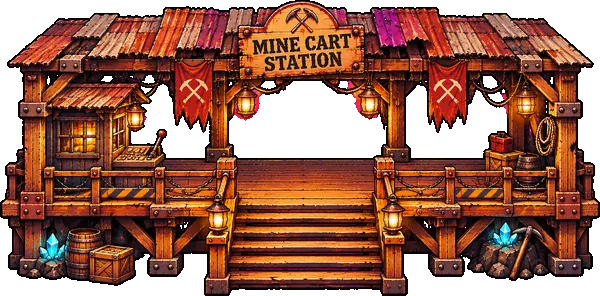
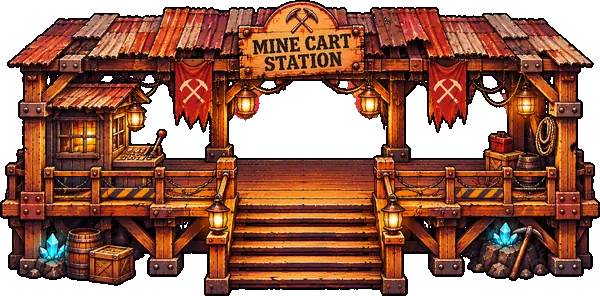
The Deep Mine: dungeon cordon enforced (helicopter blocked), station fix, play-test sim
Claude-Session: https://claude.ai/code/session_01DZ7TQ884r4s3ytnVNv4XVF

diff --git a/server/src/SurvivalRoom.js b/server/src/SurvivalRoom.js
@@ -1,7 +1,7 @@
 import { Room } from "@colyseus/core";
 import { MapSchema } from "@colyseus/schema";
 import { GameState, PlayerState, ZombieState, StructureState, LootState, PuddleState, RobotState, VehicleState } from "./schema.js";
-import { buildMapLayout, buildDynastyLayout, buildWhiteoutLayout, buildRefineryLayout, buildCarnivalLayout, buildMineLayout, mineTrack, MN_SPOT, coasterTrack, coasterAt, coasterSeat, COASTER, mapBoxes, packLayout, paintedOf, paintedLayout } from "./mapLayout.js";
+import { buildMapLayout, buildDynastyLayout, buildWhiteoutLayout, buildRefineryLayout, buildCarnivalLayout, buildMineLayout, mineTrack, mineCordon, MN_SPOT, coasterTrack, coasterAt, coasterSeat, COASTER, mapBoxes, packLayout, paintedOf, paintedLayout } from "./mapLayout.js";
 import { log } from "./logbook.js";
 
 // The world: about 9x the area of one screen. The camera follows each player around it.
@@ -424,6 +424,7 @@ export class SurvivalRoom extends Room {
     this.flow = !!P || ["dynasty", "whiteout", "refinery", "carnival", "mine"].includes(S.style);   // maps with walls and big buildings: every zombie walks the flow field (no dead ends)
     this.state.worldW = this.A.width; this.state.worldH = this.A.height; this.state.towerX = this.A.cx; this.state.towerY = this.A.cy;
     const layout = P ? paintedLayout(P) : S.style === "dynasty" ? buildDynastyLayout(W, H, S.seed) : S.style === "whiteout" ? buildWhiteoutLayout(W, H, S.seed) : S.style === "refinery" ? buildRefineryLayout(W, H, S.seed) : S.style === "carnival" ? buildCarnivalLayout(W, H, S.seed) : S.style === "mine" ? buildMineLayout(W, H, S.seed) : buildMapLayout(W, H, S.seed);
+    this.cordon = S.style === "mine" ? mineCordon(W, H) : null;   // The Deep Mine: nobody gets into the boss dungeon except by cart (cordonCheck)
     const pyr = !P && layout.find(d => d.kind === "rPyramid" || d.kind === "cvHaunted" || d.kind === "mShaft"); this.bossDoor = pyr ? { x: pyr.x, y: pyr.y - ({ rPyramid: 118, mShaft: 128 }[pyr.kind] || 74) } : null;   // the Deep Mine: bosses climb out of the DANGER shaft
     if (this.state.players) for (const q of this.state.players.values()) { q.ride = 0; q.rideCd = 0; }
     const CT = S.style === "carnival" ? coasterTrack(W, H) : S.style === "mine" ? mineTrack(W, H) : null; this.coaster = CT ? { T: CT, K: CT.cfg || COASTER, s: CT.stations[0].s, wait: (CT.cfg || COASTER).wait, next: 0, riders: new Map(), cd: new Map(), queue: new Map() } : null;   // Midnight Carnival: the train starts at the first station
@@ -1589,7 +1590,7 @@ export class SurvivalRoom extends Room {
   }
   // E / Q: radio call (0.8s), then the vehicle arrives and she boards it. Returns false (no cooldown used) if it can't come.
   callVehicle(p, kind) {
-    if (this.state.vehicles.has(p.sessionId) || !p.alive) return false;
+    if (this.state.vehicles.has(p.sessionId) || !p.alive || p.ride > 0 || this.inCordon(p)) return false;   // not from a cart seat, and not inside the mine's boss dungeon
     const spot = kind === "heli" ? { x: p.x, y: p.y } : this.clearSpot(p.x, p.y, SOFEA[kind].body + 6, 160);
     if (!spot) { this.state.message = `${p.name}: no room for the ${kind} here.`; return false; }
     const v = new VehicleState(); v.id = p.sessionId; v.kind = kind; v.phase = "call"; v.x = spot.x; v.y = spot.y;
@@ -1615,7 +1616,7 @@ export class SurvivalRoom extends Room {
   }
   // tank / mecha: blocked by the tower, generator, solid structures and map pieces; the helicopter flies over all of it
   solveVehicle(p, v) {
-    if (v.kind === "heli") return;
+    if (v.kind === "heli") { if (this.cordon) this.pushOut(p, [{ x: (this.cordon.x - 25 + this.A.width) / 2, y: (this.cordon.y - 40 + this.A.height) / 2, hw: (this.A.width - this.cordon.x + 25) / 2, hh: (this.A.height - this.cordon.y + 40) / 2 }], SOFEA.heli.body); return; }   // the helicopter flies over everything, except into the mine's boss dungeon (user, Nov 11)
     const boxes = [{ x: this.A.cx, y: this.A.cy, hw: TOWER_HALF, hh: TOWER_HALF }];
     {   // tank and mecha
       boxes.push({ x: this.A.cx + GEN_OFF.x, y: this.A.cy + GEN_OFF.y, hw: GEN_OFF.h, hh: GEN_OFF.h });
@@ -2110,6 +2111,7 @@ export class SurvivalRoom extends Room {
   }
   // ---------- RAVEN ----------
   startShadowPass(p) {
+    if (p.ride > 0) return;   // (not from a cart seat: the cart would snap her straight back)
     const a = p.aim || 0, len = Math.max(0, Math.min(RAVEN.dash.dist, this.wallDist(p.x, p.y, a, RAVEN.dash.dist + BODY_R + 2) - BODY_R - 2));
     this.shadowDash.set(p.sessionId, { fx: p.x, fy: p.y, tx: p.x + Math.cos(a) * len, ty: p.y + Math.sin(a) * len, t0: Date.now(), hit: new Set(), a, px: p.x, py: p.y });
     p.dashT = RAVEN.dash.time; p.aim = a;
@@ -2896,7 +2898,7 @@ export class SurvivalRoom extends Room {
   }
   updateCoaster(dt) {
     const C = this.coaster, T = C.T, now = Date.now();
-    const holding = () => { if (!C.held?.size || !T.stations[C.next]?.boss) return 0; let n = 0; for (const sid of [...C.held]) { const q = this.state.players.get(sid); if (!q || !q.alive || q.ride > 0) C.held.delete(sid); else n++; } return n; };   // who got off at the boss stop and isn't back yet (downed / gone = not waited for)
+    const holding = () => { if (!C.held?.size || !T.stations[C.next]?.boss) return 0; let n = 0; for (const sid of [...C.held]) { const q = this.state.players.get(sid); if (!q || !q.alive || q.ride > 0 || (this.cordon && !(q.x > this.cordon.x && q.y > this.cordon.y))) C.held.delete(sid); else n++; } return n; };   // who got off at the boss stop and isn't back yet (downed / gone = not waited for)
     if (C.wait > 0) { C.hold = holding(); C.wait -= dt; if (C.wait <= 0) { if (C.hold) C.wait = .25; else { C.wait = 0; C.next = (C.next + 1) % T.stations.length; C.s = (C.s + 2) % T.L; } } }   // leaving: just past the platform, so with ONE station the next stop is a whole lap away
     else { C.hold = 0; let left = (((T.stations[C.next].s - C.s) % T.L) + T.L) % T.L; 
       const step = Math.min(C.K.speed, Math.max(70, left * 1.6)) * dt, go = Math.min(step, left);   // slows into the station
@@ -2908,7 +2910,14 @@ export class SurvivalRoom extends Room {
     for (const [sid, until] of [...C.cd]) { const p = this.state.players.get(sid), left = Math.ceil((until - now) / 1000); if (!p || left <= 0) { C.cd.delete(sid); if (p) p.rideCd = 0; } else if (p.rideCd !== left) p.rideCd = left; }
     this.state.coasterS = Math.round(C.s * 10) / 10; const w = C.hold && C.wait <= .26 ? 1000 + C.hold : C.wait > 0 ? Math.ceil(C.wait * 4) / 4 : 0; if (this.state.coasterWait !== w) this.state.coasterWait = w;   // 1000 + n: the carts are holding at the boss stop for n survivors (no new schema field)
   }
-  untouchable(p) { const v = this.state.vehicles.get(p.sessionId); return (v?.kind === "heli" && v.phase === "ride" && !this.bossUp) || (p.ride > 0 && !this.bossUp) || this.sheltered(p) || (this.dodgeUntil.get(p.sessionId) || 0) > Date.now() || this.away.has(p.sessionId); }   // up in the helicopter / inside a safehouse / mid-dash / reconnecting
+  cordonCheck() {   // The Deep Mine: anyone in the boss dungeon who didn't come by cart (a dash through the wall, a knockback, a boss's leap) is put back outside
+    const K = this.cordon, inside = e => this.inCordon(e), held = this.coaster?.held;
+    const out = e => { const toN = e.y - (K.y - 40), toW = e.x - (K.x - 25); if (toN < toW) e.y = K.y - 40 - 34; else e.x = K.x - 25 - 34; };
+    for (const p of this.state.players.values()) if (!(p.ride > 0) && !held?.has(p.sessionId) && !this.state.vehicles.has(p.sessionId) && inside(p)) { out(p); this.shadowDash?.delete(p.sessionId); this.solveCollisions(p); }
+    for (const z of this.state.zombies.values()) if (inside(z)) { out(z); this.solveZombie(z); }
+  }
+  inCordon(e) { const K = this.cordon; return !!K && e.x > K.x + 25 && e.y > K.y + 10; }   // inside the mine's boss dungeon: nothing outside can reach you (and you can't be chased in)
+  untouchable(p) { const v = this.state.vehicles.get(p.sessionId); return this.inCordon(p) || (v?.kind === "heli" && v.phase === "ride" && !this.bossUp) || (p.ride > 0 && !this.bossUp) || this.sheltered(p) || (this.dodgeUntil.get(p.sessionId) || 0) > Date.now() || this.away.has(p.sessionId); }   // up in the helicopter / inside a safehouse / mid-dash / reconnecting
   boxRayDist(x, y, a, range, boxes) {   // distance along the ray to the first box, or range
     const dx = Math.cos(a), dy = Math.sin(a); let best = range;
     for (const b of boxes || []) {
@@ -3480,6 +3489,7 @@ export class SurvivalRoom extends Room {
     // Break between waves: 20-second countdown (shop open), then the next wave starts by itself.
     if (this.state.phase !== "playing" && this.state.vehicles.size) this.dismountAll();   // wave over / match over: everyone gets out
     if (this.coaster && (this.state.phase === "playing" || this.state.phase === "cleared")) this.updateCoaster(dt);
+    if (this.cordon) this.cordonCheck();
     if (this.state.phase !== "playing") for (const st of this.state.structures.values()) if (st.fire) st.fire = false;   // the wave is over (zombies wiped): turrets stop shooting at where their last target was
     if (this.state.phase === "cleared") {
       if (!this.inBreak) this.beginBreak();
@@ -3574,8 +3584,8 @@ export class SurvivalRoom extends Room {
     const machines = [...[...this.state.robots.values()].filter(r => r.kind !== "worker"), ...[...this.state.structures.values()].filter(st => st.kind === "heavyTurret")];
     const flying = id => (this.state.vehicles.get(id)?.kind === "heli" && this.state.vehicles.get(id).phase === "ride") || this.state.players.get(id)?.ride > 0;   // up in the helicopter / on the coaster
     this.bossUp = false; for (const z of this.state.zombies.values()) if (z.boss) { this.bossUp = true; break; }   // a boss can reach Sofea's helicopter (ordinary zombies can't): see untouchable()
-    const seenBoss = players.filter(p => !(p.shadow > 0) && !this.away.has(p.sessionId));
-    const seen = players.filter(p => !(p.shadow > 0) && !flying(p.sessionId) && !this.away.has(p.sessionId));   // invisible Raven / Sofea up in her helicopter / someone reconnecting: zombies can't get them
+    const seenBoss = players.filter(p => !(p.shadow > 0) && !this.away.has(p.sessionId) && !this.inCordon(p));
+    const seen = players.filter(p => !(p.shadow > 0) && !flying(p.sessionId) && !this.away.has(p.sessionId) && !this.inCordon(p));   // invisible Raven / Sofea up in her helicopter / someone reconnecting: zombies can't get them
     const shelter = this.shelterGuard();   // survivors inside a finished safehouse: zombies outside can't touch them
     if (this.abFx.puddles.length) this.abomPuddles(now);
     const barricades = []; for (const st of this.state.structures.values()) if (st.kind === "barricade") barricades.push(st);

diff --git a/client/mapLayout.js b/client/mapLayout.js
@@ -422,7 +422,7 @@ for (const k of MN_KINDS) if (!MAP_FLAT[k]) MAP_SOLID[k] = mnBox(k);
 for (let i = 1; i <= 16; i++) MAP_SOLID["mRock" + i] = mnBox("mRock" + i, .46, .56);
 Object.assign(MAP_SOLID, {
   // the cart station: you walk up its steps onto the deck (open); solid: the skirts either side of the steps, the back rail (the carts run behind it), the ends, the booth, the crates
-  mStation: [{ ox: -194, oy: -48, hw: 98, hh: 48 }, { ox: 194, oy: -48, hw: 98, hh: 48 }, { ox: 0, oy: -152, hw: 292, hh: 8 }, { ox: -287, oy: -122, hw: 7, hh: 24 }, { ox: 287, oy: -122, hw: 7, hh: 24 }, { ox: -206, oy: -130, hw: 50, hh: 12 }, { ox: 210, oy: -128, hw: 40, hh: 10 }],
+  mStation: [{ ox: -194, oy: -48, hw: 98, hh: 48 }, { ox: 194, oy: -48, hw: 98, hh: 48 }, { ox: 0, oy: -136, hw: 292, hh: 8 }, { ox: -287, oy: -122, hw: 7, hh: 24 }, { ox: 287, oy: -122, hw: 7, hh: 24 }, { ox: -206, oy: -130, hw: 50, hh: 12 }, { ox: 210, oy: -128, hw: 40, hh: 10 }],
   // the boss shaft: the slope down from its black mouth is open (the boss walks out); the portal: its steps up to the doorway are open
   mShaft: [{ ox: -190, oy: -190, hw: 74, hh: 175 }, { ox: 190, oy: -190, hw: 74, hh: 175 }, { ox: 0, oy: -300, hw: 120, hh: 58 }],
   mPortal: [{ ox: -205, oy: -175, hw: 72, hh: 150 }, { ox: 205, oy: -175, hw: 72, hh: 150 }, { ox: 0, oy: -245, hw: 135, hh: 70 }],
@@ -440,6 +440,7 @@ export const MN_WAY = [[850, 400], [1300, 400], [1900, 360], [2600, 320], [3300,
 export const MN_SPOT = { tower: [1450, 1330], station: [850, 565], shaft: [2450, 1080], lift: [620, 1650], collapsed: [1950, 820], crusher: [2560, 2060], shack: [820, 2220], wrecks: [1380, 830], pit: [1720, 2080],
   dungeon: [3880, 2700, 5990, 3990], portal: [5180, 3230], statue: [4520, 3170], seals: [[4060, 3010], [5600, 2960], [4080, 3480], [5560, 3480]],
   stop: [5000, 3740], shrines: [[4350, 1750], [5350, 900], [1750, 3250], [2700, 2850]] };   // stop: the carts' stop inside the boss dungeon (user, Nov 11); shrines: where the four runes wait
+export const mineCordon = (WW, WH) => ({ x: (MN_SPOT.dungeon[0] + 60) * WW / 6000, y: (MN_SPOT.dungeon[1] + 110) * WH / 4000 });   // the boss dungeon's walls: west wall line x, north wall line y (inside = x > x + 25 and y > y + 10)
 export function mineTrack(WW, WH) {   // one closed loop, points 24px apart: {x, y (the rails, on the ground), s}; ONE station (the cart station, top left)
   const sx = WW / 6000, sy = WH / 4000, P = MN_WAY.map(([x, y]) => [x * sx, y * sy]), n = P.length, raw = [];
   for (let i = 0; i < n; i++) { const p0 = P[(i - 1 + n) % n], p1 = P[i], p2 = P[(i + 1) % n], p3 = P[(i + 2) % n];
@@ -496,7 +497,7 @@ export function buildMineLayout(WW, WH, start = 6060) {
   const fixed = (k, x, y, flip = false) => { const id = out.length; out.push({ kind: k, x: Math.round(x), y: Math.round(y), flip }); boxes.push(...bx(k, Math.round(x), Math.round(y), flip, id)); };
   const drop = (k, gap, area, tries = 300, o) => { for (let t = 0; t < tries; t++) if (place(k, area[0] + rnd() * (area[2] - area[0]), area[1] + rnd() * (area[3] - area[1]), gap, !/Sign|Seal|Portal|Station/.test(k) && rnd() < .5, o)) return true; return false; };
   // the landmarks (fixed): the cart station on the track's straight, the boss shaft, the part areas
-  fixed("mStation", st0.x, st0.y + 165);
+  fixed("mStation", st0.x, st0.y + 124);   // the rails run through the open back of the station, under its roof
   for (const [k, spot] of [["mShaft", "shaft"], ["mLift", "lift"], ["mCollapsed", "collapsed"], ["mCrusher", "crusher"], ["mShack", "shack"], ["mWrecks", "wrecks"]]) fixed(k, ...S(MN_SPOT[spot]));
   // chasms the track crosses on bridges, and rock arches it runs through (wherever it heads roughly up / down, spread out)
   fixed("mChasm", ...S([2520, 3450])); fixed("mChasmV", ...S([4400, 375])); fixed("mChasm", ...S([150, 2760]));
@@ -555,7 +556,8 @@ export function buildMineLayout(WW, WH, start = 6060) {
   const [ppx, ppy] = S(MN_SPOT.pit); for (let i = 0; i < 9; i++) flat("mPuddles", ppx + (rnd() - .5) * 560, ppy + 40 + (rnd() - .5) * 300, rnd() < .5);
   flat("mStripes", st0.x - 150, st0.y + 300); flat("mChevron", st0.x + 160, st0.y + 300); flat("mHatch", tx - 260, ty + 200); flat("mGrate", tx + 270, ty - 160);
   for (let i = 0; i < 150; i++) flat(pick(["mStones", "mStones", "mDirt", "mDirt", "mRocksM", "mRocksM", "mPlanks", "mRopeM", "mGoldVein", "mBlueCrack", "mBlueCrack", "mShards", "mCrystalRocks", "mStain", "mRopeCoil"]), 60 + rnd() * (WW - 120), 120 + rnd() * (WH - 160), rnd() < .5);
-  for (let i = 0; i < 6; i++) flat("mChains", dx0 + 100 + rnd() * (dx1 - dx0 - 200), dy0 + 250 + rnd() * (dy1 - dy0 - 320), rnd() < .5);
+  { const ch = [], keepOff = [[bs.x, bs.y - 60, 330], [ptx, pty + 120, 300], ...MN_SPOT.seals.map(q => [...S(q), 170])];   // a few piles of chains on the dungeon floor: apart from each other, clear of the stop, the portal steps and the seals
+    for (let t = 0; t < 200 && ch.length < 5; t++) { const x = dx0 + 160 + rnd() * (dx1 - dx0 - 300), y = dy0 + 300 + rnd() * (dy1 - dy0 - 420); if (ch.some(c => Math.hypot(c[0] - x, c[1] - y) < 380) || keepOff.some(([kx, ky, r]) => Math.hypot(kx - x, ky - y) < r)) continue; const n0 = out.length; flat("mChains", x, y, rnd() < .5); if (out.length > n0) ch.push([x, y]); } }
   return out.sort((a, b) => (MAP_FLAT[b.kind] ? 1 : 0) - (MAP_FLAT[a.kind] ? 1 : 0) || (b.kind === "mRuneCircle") - (a.kind === "mRuneCircle"));   // flats first (the rune circle first of all: marks lie on top)
 }
 

diff --git a/server/src/mapLayout.js b/server/src/mapLayout.js
@@ -422,7 +422,7 @@ for (const k of MN_KINDS) if (!MAP_FLAT[k]) MAP_SOLID[k] = mnBox(k);
 for (let i = 1; i <= 16; i++) MAP_SOLID["mRock" + i] = mnBox("mRock" + i, .46, .56);
 Object.assign(MAP_SOLID, {
   // the cart station: you walk up its steps onto the deck (open); solid: the skirts either side of the steps, the back rail (the carts run behind it), the ends, the booth, the crates
-  mStation: [{ ox: -194, oy: -48, hw: 98, hh: 48 }, { ox: 194, oy: -48, hw: 98, hh: 48 }, { ox: 0, oy: -152, hw: 292, hh: 8 }, { ox: -287, oy: -122, hw: 7, hh: 24 }, { ox: 287, oy: -122, hw: 7, hh: 24 }, { ox: -206, oy: -130, hw: 50, hh: 12 }, { ox: 210, oy: -128, hw: 40, hh: 10 }],
+  mStation: [{ ox: -194, oy: -48, hw: 98, hh: 48 }, { ox: 194, oy: -48, hw: 98, hh: 48 }, { ox: 0, oy: -136, hw: 292, hh: 8 }, { ox: -287, oy: -122, hw: 7, hh: 24 }, { ox: 287, oy: -122, hw: 7, hh: 24 }, { ox: -206, oy: -130, hw: 50, hh: 12 }, { ox: 210, oy: -128, hw: 40, hh: 10 }],
   // the boss shaft: the slope down from its black mouth is open (the boss walks out); the portal: its steps up to the doorway are open
   mShaft: [{ ox: -190, oy: -190, hw: 74, hh: 175 }, { ox: 190, oy: -190, hw: 74, hh: 175 }, { ox: 0, oy: -300, hw: 120, hh: 58 }],
   mPortal: [{ ox: -205, oy: -175, hw: 72, hh: 150 }, { ox: 205, oy: -175, hw: 72, hh: 150 }, { ox: 0, oy: -245, hw: 135, hh: 70 }],
@@ -440,6 +440,7 @@ export const MN_WAY = [[850, 400], [1300, 400], [1900, 360], [2600, 320], [3300,
 export const MN_SPOT = { tower: [1450, 1330], station: [850, 565], shaft: [2450, 1080], lift: [620, 1650], collapsed: [1950, 820], crusher: [2560, 2060], shack: [820, 2220], wrecks: [1380, 830], pit: [1720, 2080],
   dungeon: [3880, 2700, 5990, 3990], portal: [5180, 3230], statue: [4520, 3170], seals: [[4060, 3010], [5600, 2960], [4080, 3480], [5560, 3480]],
   stop: [5000, 3740], shrines: [[4350, 1750], [5350, 900], [1750, 3250], [2700, 2850]] };   // stop: the carts' stop inside the boss dungeon (user, Nov 11); shrines: where the four runes wait
+export const mineCordon = (WW, WH) => ({ x: (MN_SPOT.dungeon[0] + 60) * WW / 6000, y: (MN_SPOT.dungeon[1] + 110) * WH / 4000 });   // the boss dungeon's walls: west wall line x, north wall line y (inside = x > x + 25 and y > y + 10)
 export function mineTrack(WW, WH) {   // one closed loop, points 24px apart: {x, y (the rails, on the ground), s}; ONE station (the cart station, top left)
   const sx = WW / 6000, sy = WH / 4000, P = MN_WAY.map(([x, y]) => [x * sx, y * sy]), n = P.length, raw = [];
   for (let i = 0; i < n; i++) { const p0 = P[(i - 1 + n) % n], p1 = P[i], p2 = P[(i + 1) % n], p3 = P[(i + 2) % n];
@@ -496,7 +497,7 @@ export function buildMineLayout(WW, WH, start = 6060) {
   const fixed = (k, x, y, flip = false) => { const id = out.length; out.push({ kind: k, x: Math.round(x), y: Math.round(y), flip }); boxes.push(...bx(k, Math.round(x), Math.round(y), flip, id)); };
   const drop = (k, gap, area, tries = 300, o) => { for (let t = 0; t < tries; t++) if (place(k, area[0] + rnd() * (area[2] - area[0]), area[1] + rnd() * (area[3] - area[1]), gap, !/Sign|Seal|Portal|Station/.test(k) && rnd() < .5, o)) return true; return false; };
   // the landmarks (fixed): the cart station on the track's straight, the boss shaft, the part areas
-  fixed("mStation", st0.x, st0.y + 165);
+  fixed("mStation", st0.x, st0.y + 124);   // the rails run through the open back of the station, under its roof
   for (const [k, spot] of [["mShaft", "shaft"], ["mLift", "lift"], ["mCollapsed", "collapsed"], ["mCrusher", "crusher"], ["mShack", "shack"], ["mWrecks", "wrecks"]]) fixed(k, ...S(MN_SPOT[spot]));
   // chasms the track crosses on bridges, and rock arches it runs through (wherever it heads roughly up / down, spread out)
   fixed("mChasm", ...S([2520, 3450])); fixed("mChasmV", ...S([4400, 375])); fixed("mChasm", ...S([150, 2760]));
@@ -555,7 +556,8 @@ export function buildMineLayout(WW, WH, start = 6060) {
   const [ppx, ppy] = S(MN_SPOT.pit); for (let i = 0; i < 9; i++) flat("mPuddles", ppx + (rnd() - .5) * 560, ppy + 40 + (rnd() - .5) * 300, rnd() < .5);
   flat("mStripes", st0.x - 150, st0.y + 300); flat("mChevron", st0.x + 160, st0.y + 300); flat("mHatch", tx - 260, ty + 200); flat("mGrate", tx + 270, ty - 160);
   for (let i = 0; i < 150; i++) flat(pick(["mStones", "mStones", "mDirt", "mDirt", "mRocksM", "mRocksM", "mPlanks", "mRopeM", "mGoldVein", "mBlueCrack", "mBlueCrack", "mShards", "mCrystalRocks", "mStain", "mRopeCoil"]), 60 + rnd() * (WW - 120), 120 + rnd() * (WH - 160), rnd() < .5);
-  for (let i = 0; i < 6; i++) flat("mChains", dx0 + 100 + rnd() * (dx1 - dx0 - 200), dy0 + 250 + rnd() * (dy1 - dy0 - 320), rnd() < .5);
+  { const ch = [], keepOff = [[bs.x, bs.y - 60, 330], [ptx, pty + 120, 300], ...MN_SPOT.seals.map(q => [...S(q), 170])];   // a few piles of chains on the dungeon floor: apart from each other, clear of the stop, the portal steps and the seals
+    for (let t = 0; t < 200 && ch.length < 5; t++) { const x = dx0 + 160 + rnd() * (dx1 - dx0 - 300), y = dy0 + 300 + rnd() * (dy1 - dy0 - 420); if (ch.some(c => Math.hypot(c[0] - x, c[1] - y) < 380) || keepOff.some(([kx, ky, r]) => Math.hypot(kx - x, ky - y) < r)) continue; const n0 = out.length; flat("mChains", x, y, rnd() < .5); if (out.length > n0) ch.push([x, y]); } }
   return out.sort((a, b) => (MAP_FLAT[b.kind] ? 1 : 0) - (MAP_FLAT[a.kind] ? 1 : 0) || (b.kind === "mRuneCircle") - (a.kind === "mRuneCircle"));   // flats first (the rune circle first of all: marks lie on top)
 }
 

diff --git a/client/client.js b/client/client.js
@@ -3570,8 +3570,8 @@ function drawDynastyWorld() {
     if (d.kind === "mStop") { drawBossStop(d); continue; }
     if (d.kind === "mShrine") { tall.push({ y: d.y - 6, draw: () => { drawMapObj(d); shrineFx(d); dynPieceFx(d, a); } }); continue; }
     if (d.kind === "mWardGate") { tall.push({ y: d.flip ? d.y + 130 : d.y + 40, draw: () => drawWard(d) }); continue; }
-    if (d.kind === "cvStation" || d.kind === "mStation") { drawMapObj(d); const img = spooky(mapImgs[d.kind]), rh = Math.round(a.h * (d.kind === "mStation" ? .3 : .33));   // the coaster station: its floor is walked on (drawn now); only its canopy roof is drawn over people and the train
-      if (img) tall.push({ y: d.kind === "mStation" ? d.y - 185 : d.y - 6, draw: () => ctx.drawImage(img, 0, 0, a.w, rh, Math.round(d.x - a.w / 2), d.y - a.h, a.w, rh) }); dynPieceFx(d, a); continue; }
+    if (d.kind === "cvStation" || d.kind === "mStation") { drawMapObj(d); const img = spooky(mapImgs[d.kind]), rh = Math.round(a.h * (d.kind === "mStation" ? .25 : .33));   // the coaster station: its floor is walked on (drawn now); only its canopy roof is drawn over people and the train
+      if (img) tall.push({ y: d.kind === "mStation" ? d.y - 104 : d.y - 6, /* the mine station: its roof goes over the carts parked under it (their riders sit below the eave), but not over people on the deck */ draw: () => ctx.drawImage(img, 0, 0, a.w, rh, Math.round(d.x - a.w / 2), d.y - a.h, a.w, rh) }); dynPieceFx(d, a); continue; }
     if (MAP_FLAT[d.kind]) drawMapObj(d); else tall.push({ y: a?.door ? d.y + a.door[1] + a.door[3] - 10 : d.y - 6, draw: () => { if (a?.frames) drawAnimPiece(d, a); else drawMapObj(d); if (d.kind === "mPortal") portalFx(d, a); else if (a?.door) pyramidFx(d, a); if (/^mSeal/.test(d.kind)) sealFx(d, a); if (d.kind === "mStatue") statueFx(d, a); dynPieceFx(d, a); } });
   }
   if (coast) { try { coasterTall(tall); } catch (e) { reportError(e, "draw"); } }   // a coaster bug must never hide the whole world
@@ -3620,7 +3620,7 @@ function drawCoasterPrompt() {   // screen space, over your head (like the repai
 function drawStationSigns() {   // world space, over each station: "COASTER · train here / arrives in Ns", so you can find them and see when it comes
   if (!coast) return; const t = performance.now() / 1000, here = coastStation();
   for (const st of coast.T.stations) { if (!inView(st.x, st.y, 300)) continue;
-    const x = st.x, y = st.y - (st.boss ? 300 : coast.mn ? 172 : 150) + Math.sin(t * 3 + st.x) * 4, txt = (st.boss ? "BOSS STOP · " : "") + (here === st ? (state.coasterWait >= 1000 ? `WAITING FOR ${state.coasterWait - 1000}` : coast.mn ? "CARTS HERE · press F" : "TRAIN HERE · press F") : `${coast.mn ? "CARTS" : "TRAIN"} IN ${coastEta(st)}s`);
+    const x = st.x, y = st.y - (st.boss ? 300 : coast.mn ? 196 : 150) + Math.sin(t * 3 + st.x) * 4, txt = (st.boss ? "BOSS STOP · " : "") + (here === st ? (state.coasterWait >= 1000 ? `WAITING FOR ${state.coasterWait - 1000}` : coast.mn ? "CARTS HERE · press F" : "TRAIN HERE · press F") : `${coast.mn ? "CARTS" : "TRAIN"} IN ${coastEta(st)}s`);
     ctx.save(); ctx.font = "bold 14px Inter, system-ui, sans-serif"; ctx.textAlign = "center"; const w = ctx.measureText(txt).width + 26;
     ctx.fillStyle = here === st ? "rgba(255,190,60,.92)" : "rgba(20,12,8,.78)"; ctx.beginPath(); ctx.roundRect(x - w / 2, y - 16, w, 24, 12); ctx.fill();
     ctx.fillStyle = here === st ? "#2a1405" : "#ffe08a"; ctx.fillText(txt, x, y + 1);
@@ -4159,6 +4159,7 @@ function lightHole(x, y, r, a) {
 }
 function drawNight() {
   const now = performance.now(), dt = Math.min(.1, (now - (nightLast || now)) / 1000); nightLast = now;
+  if (window.__saNoDark) return;   // (automated map surveys: no darkness)
   nightK += ((isNightView() ? 1 : mineMap() ? CAVE_DARK : 0) - nightK) * Math.min(1, dt * 1.5);   // The Deep Mine is always half dark (a cave): lanterns, crystals and you light it          // fade in/out over ~2 seconds
   if (nightK < .01) return;
   ctx.fillStyle = `rgba(4,8,15,${.25 * nightK})`; ctx.fillRect(0, 0, W, H);     // cold blue tint

diff --git a/client/index.html b/client/index.html
@@ -533,5 +533,5 @@ body.in-match #ls{display:none}
 <div id="spectate" class="spectate hidden" aria-live="polite"><b id="specTitle"></b><span><span id="specWho"></span><small id="specHint"> · Space / ← → / click to switch</small></span></div>
  <div id="overlay" class="overlay hidden"><div class="modal"><div style="font-size:42px">☣</div><h2 id="overlayTitle"></h2><p class="muted" id="overlayText"></p><div id="shop" class="shop hidden" aria-label="Shop"></div><div id="breakBtns" class="break-btns hidden"><button class="button primary" id="breakReady">READY</button><button class="button" id="breakMin">▾ MINIMIZE · BUILD FIRST</button><button class="button hidden" id="nextStage">START NOW</button></div><button class="button primary hidden" id="restartGame">PLAY AGAIN</button></div></div>
 </section>
-<script type="module" src="./client.js?v=20261111j"></script>
+<script type="module" src="./client.js?v=20261111k"></script>
 </body></html>

diff --git a/tools/extract-mine.py b/tools/extract-mine.py
@@ -71,7 +71,10 @@ def load(name, halo=False):
 # big pieces: (file, kind, width in game px, max lanterns, max crystal glows)
 BIG = [('shaft', 'mShaft', 520, 4, 6), ('lift', 'mLift', 470, 8, 4), ('station', 'mStation', 600, 8, 3), ('crusher', 'mCrusher', 450, 4, 6), ('shack', 'mShack', 400, 6, 3),
        ('crystal-big', 'mCrystal', 380, 2, 8), ('collapsed', 'mCollapsed', 420, 3, 4), ('wrecks', 'mWrecks', 400, 3, 5), ('arch', 'mArch', 420, 2, 4)]
-for f, k, w, nl, nb in BIG: save(k, load(f + '.png'), w, lights=nl, blue=nb, loose=k in ('mStation', 'mShack', 'mShaft', 'mCollapsed'))
+def unpink(a):   # the station's art has magenta-ish roof sheets and pink halos round its lanterns (the background bleeding in): turn them rust-brown
+    q = a.astype(float); r, g, b = q[..., 0], q[..., 1], q[..., 2]; pk = (r > g + 45) & (b > g + 22) & (b > 80); lum = .35 * r + .4 * g + .25 * b
+    q[..., 0] = np.where(pk, np.clip(lum * 1.45, 0, 255), r); q[..., 1] = np.where(pk, lum * .72, g); q[..., 2] = np.where(pk, lum * .5, b); return q.astype(np.uint8)
+for f, k, w, nl, nb in BIG: save(k, unpink(load(f + '.png')) if k == 'mStation' else load(f + '.png'), w, lights=nl, blue=nb, loose=k in ('mStation', 'mShack', 'mShaft', 'mCollapsed'))
 save('mStatue', load('statue.png'), 600, blue=0)   # the Mine Beast asleep in stone (the 4 runes on its plinth light up in code)
 pieces['mStatue']['runes'] = [[-132, -92], [-43, -92], [46, -92], [133, -91]]   # the plinth's four rune carvings (one lights up per rune put in)
 a = save('mPortal', load('portal.png'), 560, blue=6)

diff --git a/HANDOFF.md b/HANDOFF.md
@@ -460,3 +460,5 @@ Jump to wave, spawn 5 of each zombie, spawn Hivemind, boss intro now, boss to 25
 - Nov 11 (cache 20261111g): Deep Mine ground blend: mineGroundBlend() paints each slate/mud/planks patch and the dungeon floor through a shadow-blurred mask (mineMasked), plus soft grime blotches; extract-mine.py fades flat marks over their last 16px.
 - Nov 11 (cache 20261111h): dungeon floor kept clean: flats skip the dungeon rect (only mChains, away from the statue spot).
 - Nov 11 (cache 20261111i): dungeon CORDONED: invisible mWardH/mWardV solids + visible pillar/claw-wall rows; track gates found by crossing the wall lines (north: mArch + mWardGate; west: 2 pillars + totems + mWardGate, flip = vertical curtain; drawWard). Layout flood ignores the dungeon. mStatue (600x605, plinth runes in MN_ART.mStatue.runes, statueFx) at statue spot +70 on the rune circle. coasterOff: knocked off inside the dungeon = back to the station deck. Source art saved: beast-pick/beast-sheet/statue/beast-awaken.png (awakening 8 frames, not cut yet).
+- Nov 11 (cache 20261111j): BOSS STOP: mineTrack stations = [start (off: 1 in front), boss stop (MN_SPOT.stop 5000,3740; off: -1 = behind the rails at y-160; boss: 1)]. Hopping off there = no cooldown + C.held; the carts hold at that stop while anyone in C.held is alive and off (C.hold; state.coasterWait = 1000 + n while holding: no new schema field). Riders who boarded at the boss stop get off at the start station. mStop platform drawn in code (drawBossStop), lantern posts. Layout flood seeds from the tower AND the boss stop. 4 rune shrines (MN_SPOT.shrines) with floating runes (shrineFx; mRune1-4 art cut from runes.png). solo client-shim: room.server getter for tests.
+- Nov 11 (cache 20261111k): play-test fixes on the Deep Mine. CORDON is enforced: this.cordon (mineCordon) + inCordon(); the helicopter is pushed out by solveVehicle; cordonCheck() each tick puts anyone inside who is not riding / not "held" (got off at the boss stop) back outside, zombies too; survivors inside are untouchable and not targeted (zombies go for the tower); no vehicles called from a cart seat or inside the dungeon; no Shadow Pass from a cart seat. Station moved to st0.y+124 so the carts park in its open back under the roof (roof = top 25% drawn over the carts; sign visible, riders visible); pink roof sheets recoloured (unpink in extract-mine.py); chains spaced out. New: tools/sim-mine.mjs (zombies from 240 spots reach the tower, hunters reach 8 far spots, dungeon ignored, spawn points, 3 laps with both stops) and tools/build-room.mjs (bundle for the sims without running the tests). window.__saNoDark = true turns the cave darkness off for surveys.
